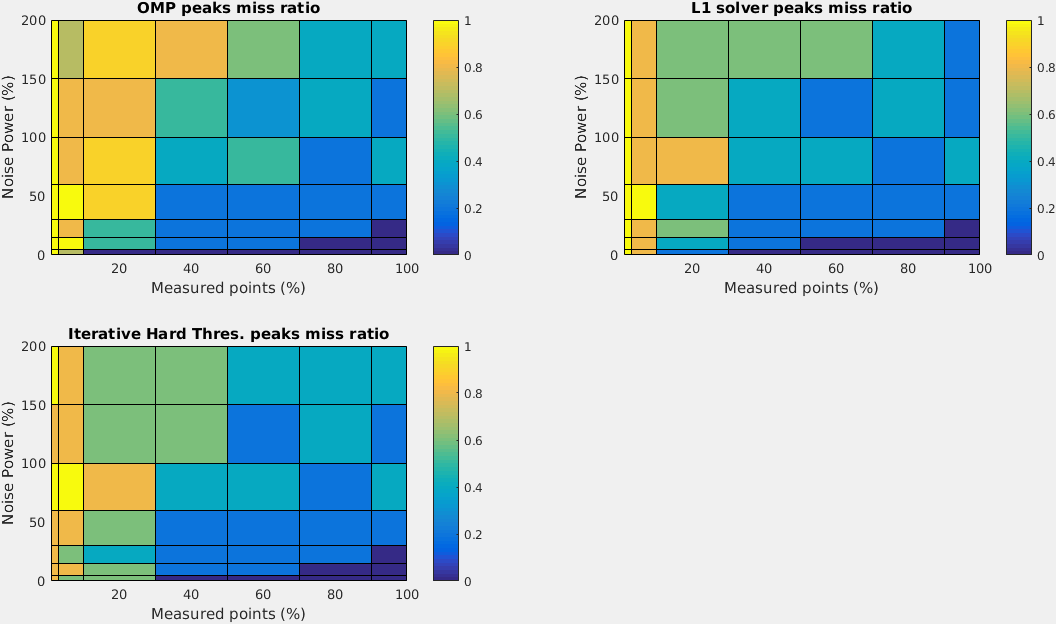
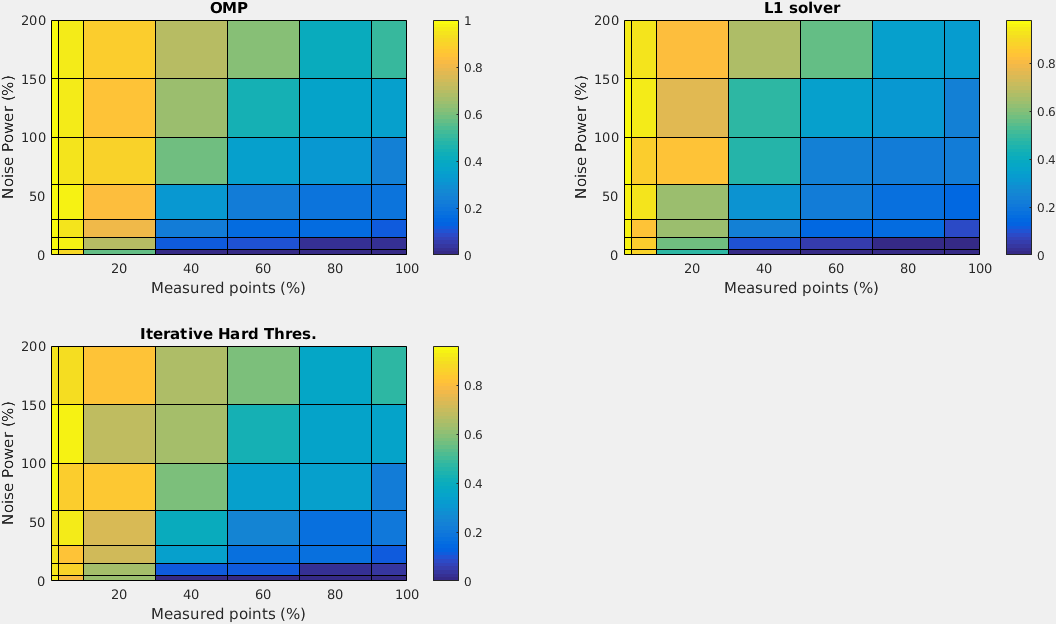
Repeat analysis for better results

diff --git a/perf_comparision/analysis.m b/perf_comparision/analysis.m
@@ -6,7 +6,7 @@ clc;
 
 addpath(genpath(pwd));
 
-rng(0);
+rng('shuffle');
 
 
 %% Define parameters
@@ -22,6 +22,7 @@ noise_sd_list = [0, 5, 15, 30, 60, 100, 150, 200];
 
 
 %% Generate experiment params
+num_reps = 10; % Number of times to repeat the whole experiment
 num_exp = numel(m_list)*numel(noise_sd_list);
 
 exp_params = zeros(num_exp, 2);
@@ -53,48 +54,57 @@ sig_power= (sum(x_original.^2))/n;
 %% Generate/Load the measurement matrix and the basis matrix
 
 % Generate a Gaussian IID matrix
-sensing_mat_full = randn(n, n);
-basis_mat = dftmtx(n);
-inv_basis_mat = conj(basis_mat)/n;
+
+for rep_idx=1:num_reps
+    sensing_mat_full = randn(n, n);
+    basis_mat = dftmtx(n);
+    inv_basis_mat = conj(basis_mat)/n;
 
 
-for exp_idx=1:num_exp
-    fprintf('Exp #%d\n', exp_idx);
+    for exp_idx=1:num_exp
+        fprintf('Exp #%d\n', exp_idx);
 
-    m = ceil(exp_params(exp_idx, 1)*n/100);
-    noise_sd = sqrt(exp_params(exp_idx, 2)*sig_power/100);
+        m = ceil(exp_params(exp_idx, 1)*n/100);
+        noise_sd = sqrt(exp_params(exp_idx, 2)*sig_power/100);
 
-    x = x_original + randn(size(x_original))*noise_sd;
+        x = x_original + randn(size(x_original))*noise_sd;
 
-    sensing_mat = sensing_mat_full(1:m,:);
-    A = sensing_mat*basis_mat;
-
-
-    % Get the measurements
-    y = sensing_mat*x;
+        sensing_mat = sensing_mat_full(1:m,:);
+        A = sensing_mat*basis_mat;
 
 
-    % Solve
-    f_original = inv_basis_mat*x_original;
-    f_noisy = inv_basis_mat*x;
+        % Get the measurements
+        y = sensing_mat*x;
 
-    [f_omp, ~] = omp(y, A, noise_sd*sqrt(m), num_sinusoids*2);
-    [f_l1, ~] = l1solver(y, A, noise_sd*sqrt(m));
-    [f_iht, ~] = iht(y, A, noise_sd*sqrt(m), num_sinusoids*2);
 
-    % Get L2 error in frequency domain
-    rrmse(exp_idx, 1) = norm(abs(f_original) - abs(f_omp))/norm(abs(f_original));
-    rrmse(exp_idx, 2) = norm(abs(f_original) - abs(f_l1))/norm(abs(f_original));
-    rrmse(exp_idx, 3) = norm(abs(f_original) - abs(f_iht))/norm(abs(f_original));
+        % Solve
+        f_original = inv_basis_mat*x_original;
+        f_noisy = inv_basis_mat*x;
 
-    miss_index(exp_idx, 1) = 1 - ...
-        sparsity_comp(f_omp, f_original, num_sinusoids*2)/(num_sinusoids*2);
-    miss_index(exp_idx, 2) = 1 - ...
-        sparsity_comp(f_l1, f_original, num_sinusoids*2)/(num_sinusoids*2);
-    miss_index(exp_idx, 3) = 1 - ...
-        sparsity_comp(f_iht, f_original, num_sinusoids*2)/(num_sinusoids*2);
+        [f_omp, ~] = omp(y, A, noise_sd*sqrt(m), num_sinusoids*2);
+        [f_l1, ~] = l1solver(y, A, noise_sd*sqrt(m));
+        [f_iht, ~] = iht(y, A, noise_sd*sqrt(m), num_sinusoids*2);
 
+        % Get L2 error in frequency domain
+        rrmse(exp_idx, 1) = rrmse(exp_idx, 1) + ...
+                norm(abs(f_original) - abs(f_omp))/norm(abs(f_original));
+        rrmse(exp_idx, 2) = rrmse(exp_idx, 2) + ...
+                norm(abs(f_original) - abs(f_l1))/norm(abs(f_original));
+        rrmse(exp_idx, 3) = rrmse(exp_idx, 3) + ...
+                norm(abs(f_original) - abs(f_iht))/norm(abs(f_original));
+
+        miss_index(exp_idx, 1) = miss_index(exp_idx, 1) + 1 - ...
+            sparsity_comp(f_omp, f_original, num_sinusoids*2)/(num_sinusoids*2);
+        miss_index(exp_idx, 2) = miss_index(exp_idx, 2) + 1 - ...
+            sparsity_comp(f_l1, f_original, num_sinusoids*2)/(num_sinusoids*2);
+        miss_index(exp_idx, 3) = miss_index(exp_idx, 3) + 1 - ...
+            sparsity_comp(f_iht, f_original, num_sinusoids*2)/(num_sinusoids*2);
+
+    end
 end
+
+rrmse = rrmse./num_reps;
+miss_index = miss_index./num_reps;
 
 
 %% Plots
@@ -104,21 +114,21 @@ subplot(221);
 pcolor(m_list, noise_sd_list, reshape(rrmse(:, 1), numel(noise_sd_list), []));
 xlabel('Measured points (%)');
 ylabel('Noise Power (%)');
-title('OMP RRMSE');
+title('OMP');
 caxis([0, rrmse_max]);
 colorbar;
 subplot(222);
 pcolor(m_list, noise_sd_list, reshape(rrmse(:, 2), numel(noise_sd_list), []));
 xlabel('Measured points (%)');
 ylabel('Noise Power (%)');
-title('L1 solver RRMSE');
+title('L1 solver');
 caxis([0, rrmse_max]);
 colorbar;
 subplot(223);
 pcolor(m_list, noise_sd_list, reshape(rrmse(:, 3), numel(noise_sd_list), []));
 xlabel('Measured points (%)');
 ylabel('Noise Power (%)');
-title('Iterative Hard Thres. RRMSE');
+title('Iterative Hard Thres.');
 caxis([0, rrmse_max]);
 colorbar;
 
@@ -130,19 +140,19 @@ subplot(221);
 pcolor(m_list, noise_sd_list, reshape(miss_index(:, 1), numel(noise_sd_list), []));
 xlabel('Measured points (%)');
 ylabel('Noise Power (%)');
-title('OMP peaks miss ratio');
+title('OMP');
 colorbar;
 subplot(222);
 pcolor(m_list, noise_sd_list, reshape(miss_index(:, 2), numel(noise_sd_list), []));
 xlabel('Measured points (%)');
 ylabel('Noise Power (%)');
-title('L1 solver peaks miss ratio');
+title('L1 solver');
 colorbar;
 subplot(223);
 pcolor(m_list, noise_sd_list, reshape(miss_index(:, 3), numel(noise_sd_list), []));
 xlabel('Measured points (%)');
 ylabel('Noise Power (%)');
-title('Iterative Hard Thres. peaks miss ratio');
+title('Iterative Hard Thres.');
 colorbar;
 export_fig 'miss' '-dpng'
 
